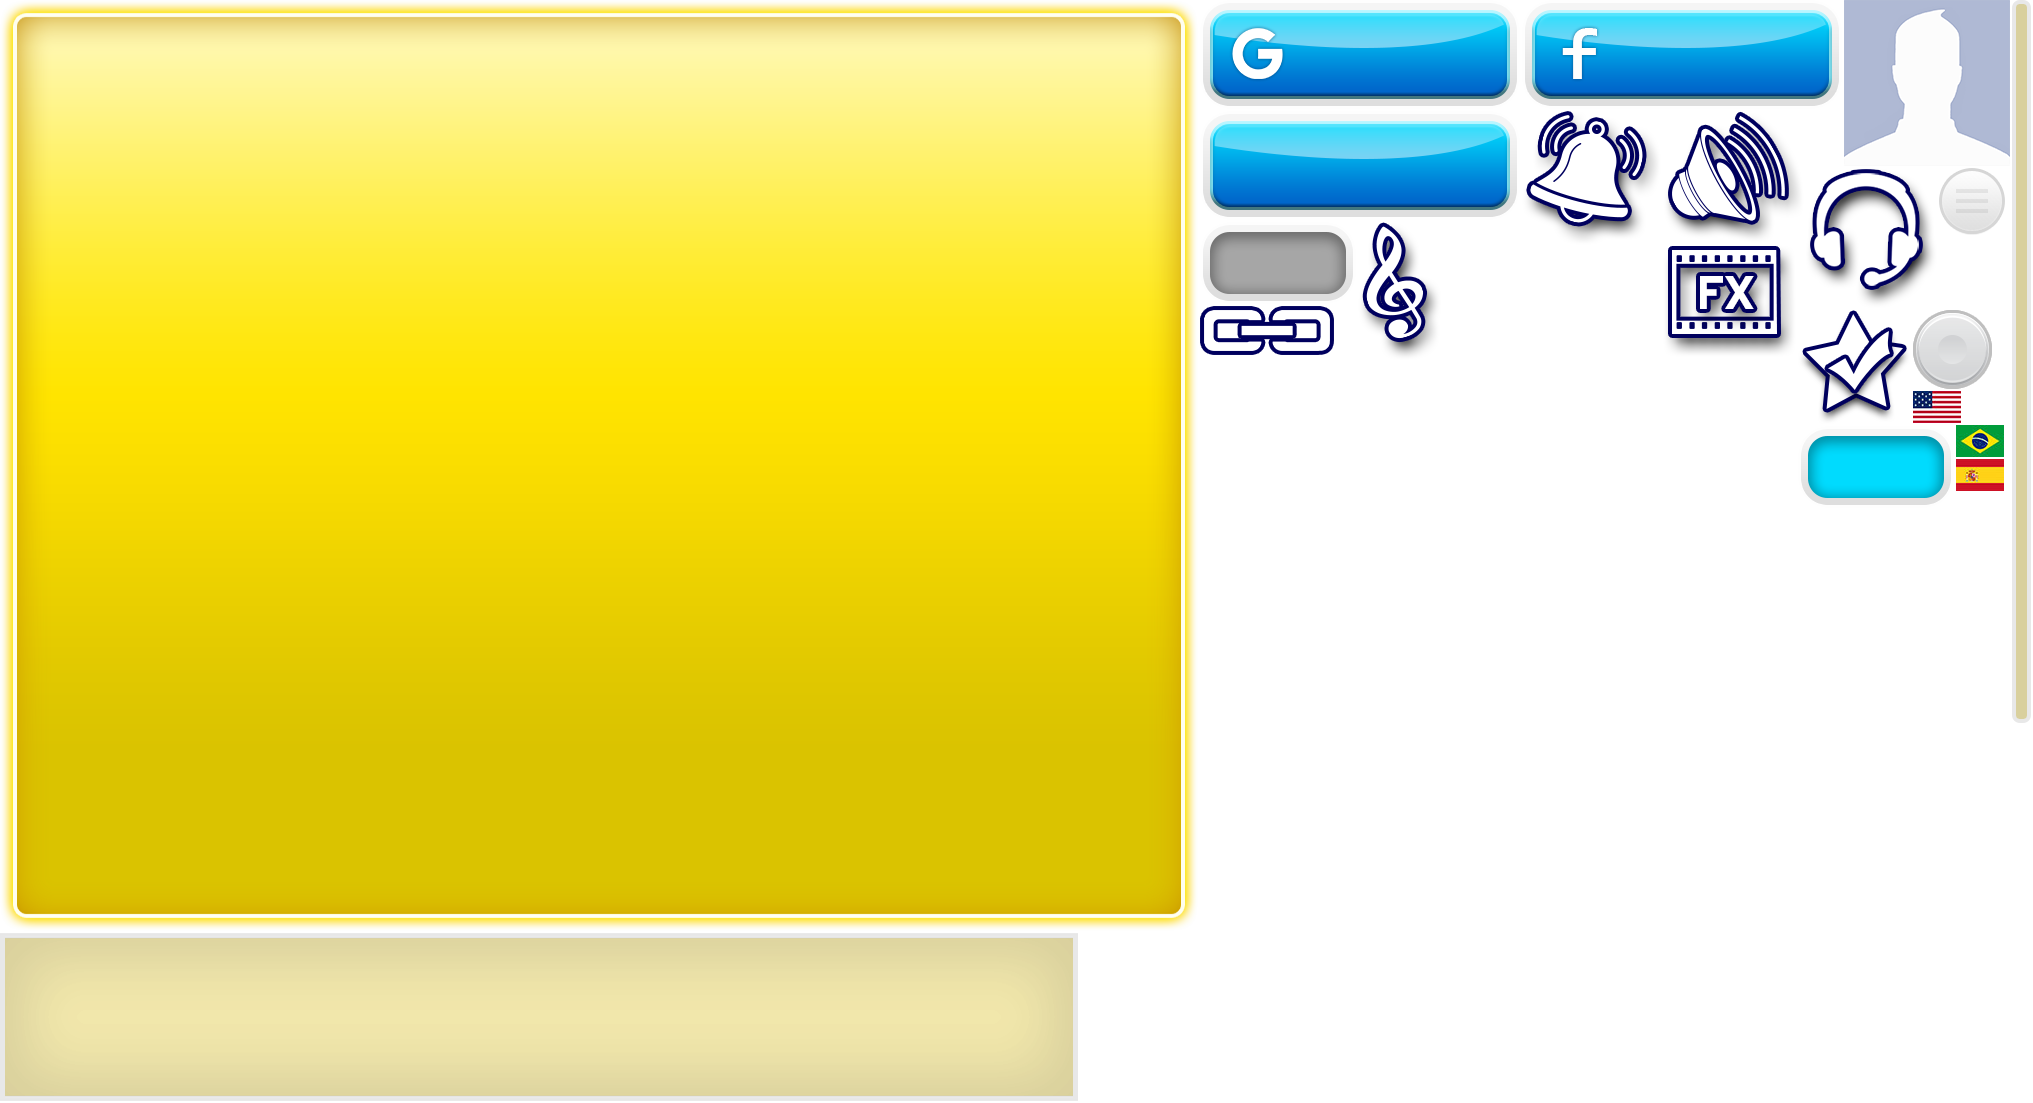
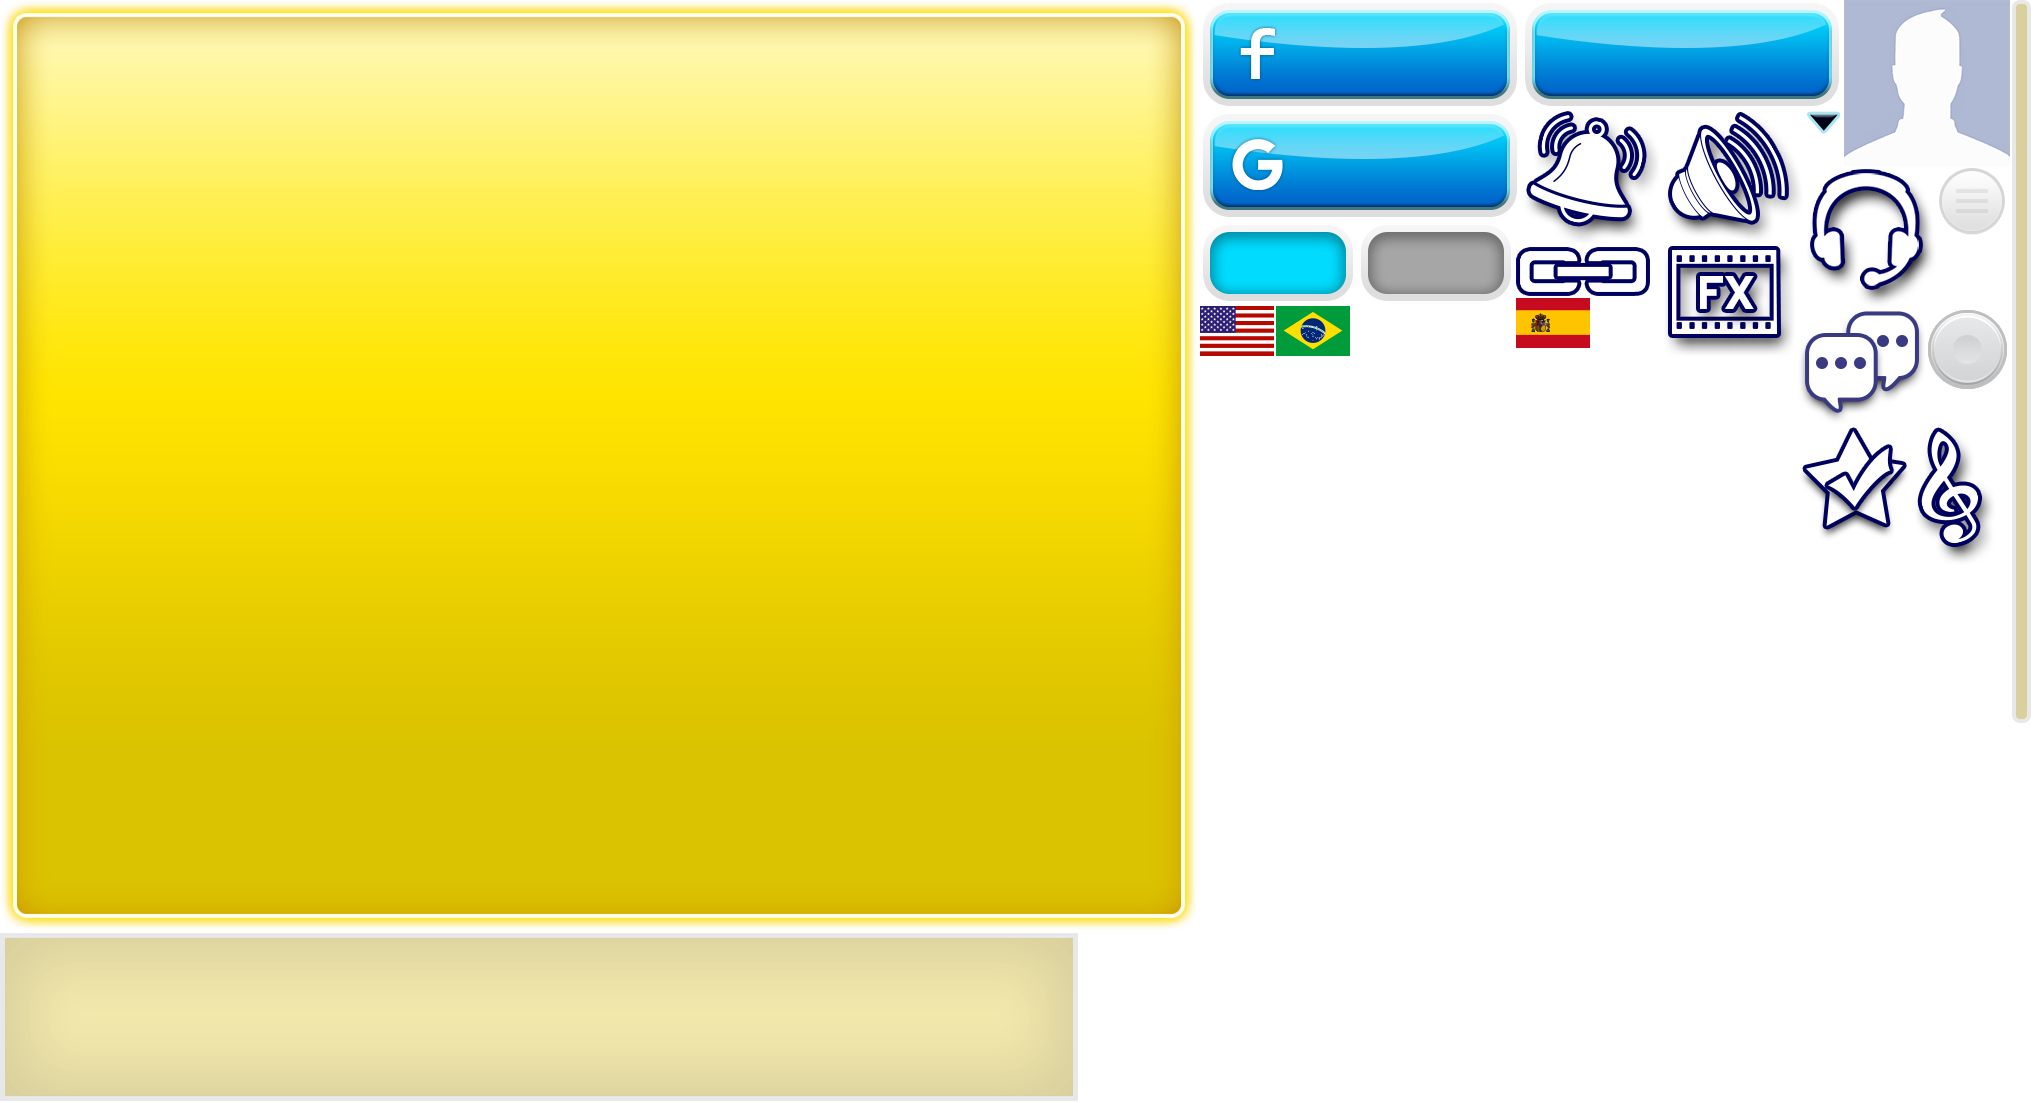
add assets

diff --git a/newMoblie/src/scene/modal/popups/gameSettingPopup/GameSettingPopup.ts b/newMoblie/src/scene/modal/popups/gameSettingPopup/GameSettingPopup.ts
@@ -1,0 +1,57 @@
+class GameSettingPopup extends GenericPo {
+
+	protected scrollArea: egret.ScrollView;
+	protected scrollBar: egret.DisplayObjectContainer;
+
+	protected static get classAssetName() {
+        return "gameSettings";
+    }
+
+	public constructor() {
+		super();
+	}
+
+	protected init() {
+        this.bgAssetName = "gameSettings_json.bg";
+
+        super.init();
+
+		this.bg.width = 620;
+		this.bg.height = 495;
+		this.anchorOffsetX = this.bg.width >> 1;
+		this.anchorOffsetY = this.bg.height >> 1;
+
+		this.addScrollArea( new egret.Rectangle( 62, 41, 1040, 910 ) );
+
+		this.addItems();
+	}
+
+	protected addScrollArea( maskRect: egret.Rectangle ){
+		this.scrollArea = new egret.ScrollView;
+		this.scrollArea.width = maskRect.width;
+		this.scrollArea.height = maskRect.height;
+		Com.addObjectAt( this, this.scrollArea, maskRect.x, maskRect.y );
+		this.scrollBar = new egret.DisplayObjectContainer;
+		this.scrollArea.setContent( this.scrollBar );
+	}
+
+	protected addItem( index: number, icon: string, text: string, entity: egret.DisplayObject ){
+		let settingsItem: GameSettingItem = new GameSettingItem( icon, text, entity );
+		settingsItem.y = index * 150;
+	}
+
+	private addItems(){
+		let button1: TouchDownButton = Com.addDownButtonAt( this, "gameSettings_json.support_btn", "gameSettings_json.support_btn", 700, 20, this.logout, true );
+		this.addItem( 0, "avatar", "gustId:" + 1234567, button1 );
+		let button2: TouchDownButton = Com.addDownButtonAt( this, "gameSettings_json.support_btn", "gameSettings_json.support_btn", 700, 20, this.logout, true );
+		this.addItem( 1, "avatar", MuLang.getText( "language" ), button2 );
+
+		this.addItem( 3, "avatar", MuLang.getText( "language" ), button2 );
+		this.addItem( 4, "avatar", MuLang.getText( "language" ), button2 );
+		this.addItem( 5, "avatar", MuLang.getText( "language" ), button2 );
+	}
+
+	private logout(){
+
+	}
+}

diff --git a/newMoblie/src/scene/modal/popups/gameSettingPopup/GameSettingItem.ts b/newMoblie/src/scene/modal/popups/gameSettingPopup/GameSettingItem.ts
@@ -1,0 +1,10 @@
+class GameSettingItem extends egret.DisplayObjectContainer{
+	public constructor( icon: string, text: string, entity: egret.DisplayObject ) {
+		super();
+
+		let bg: egret.Bitmap = Com.addBitmapAt( this, "gameSettings_json.tab_bg", 0, 0 );
+		bg.width = 1040;
+		bg.height = 140;
+		Com.addBitmapAtMiddle( this, "gameSettings_json." + icon, 90, 70 );
+	}
+}
